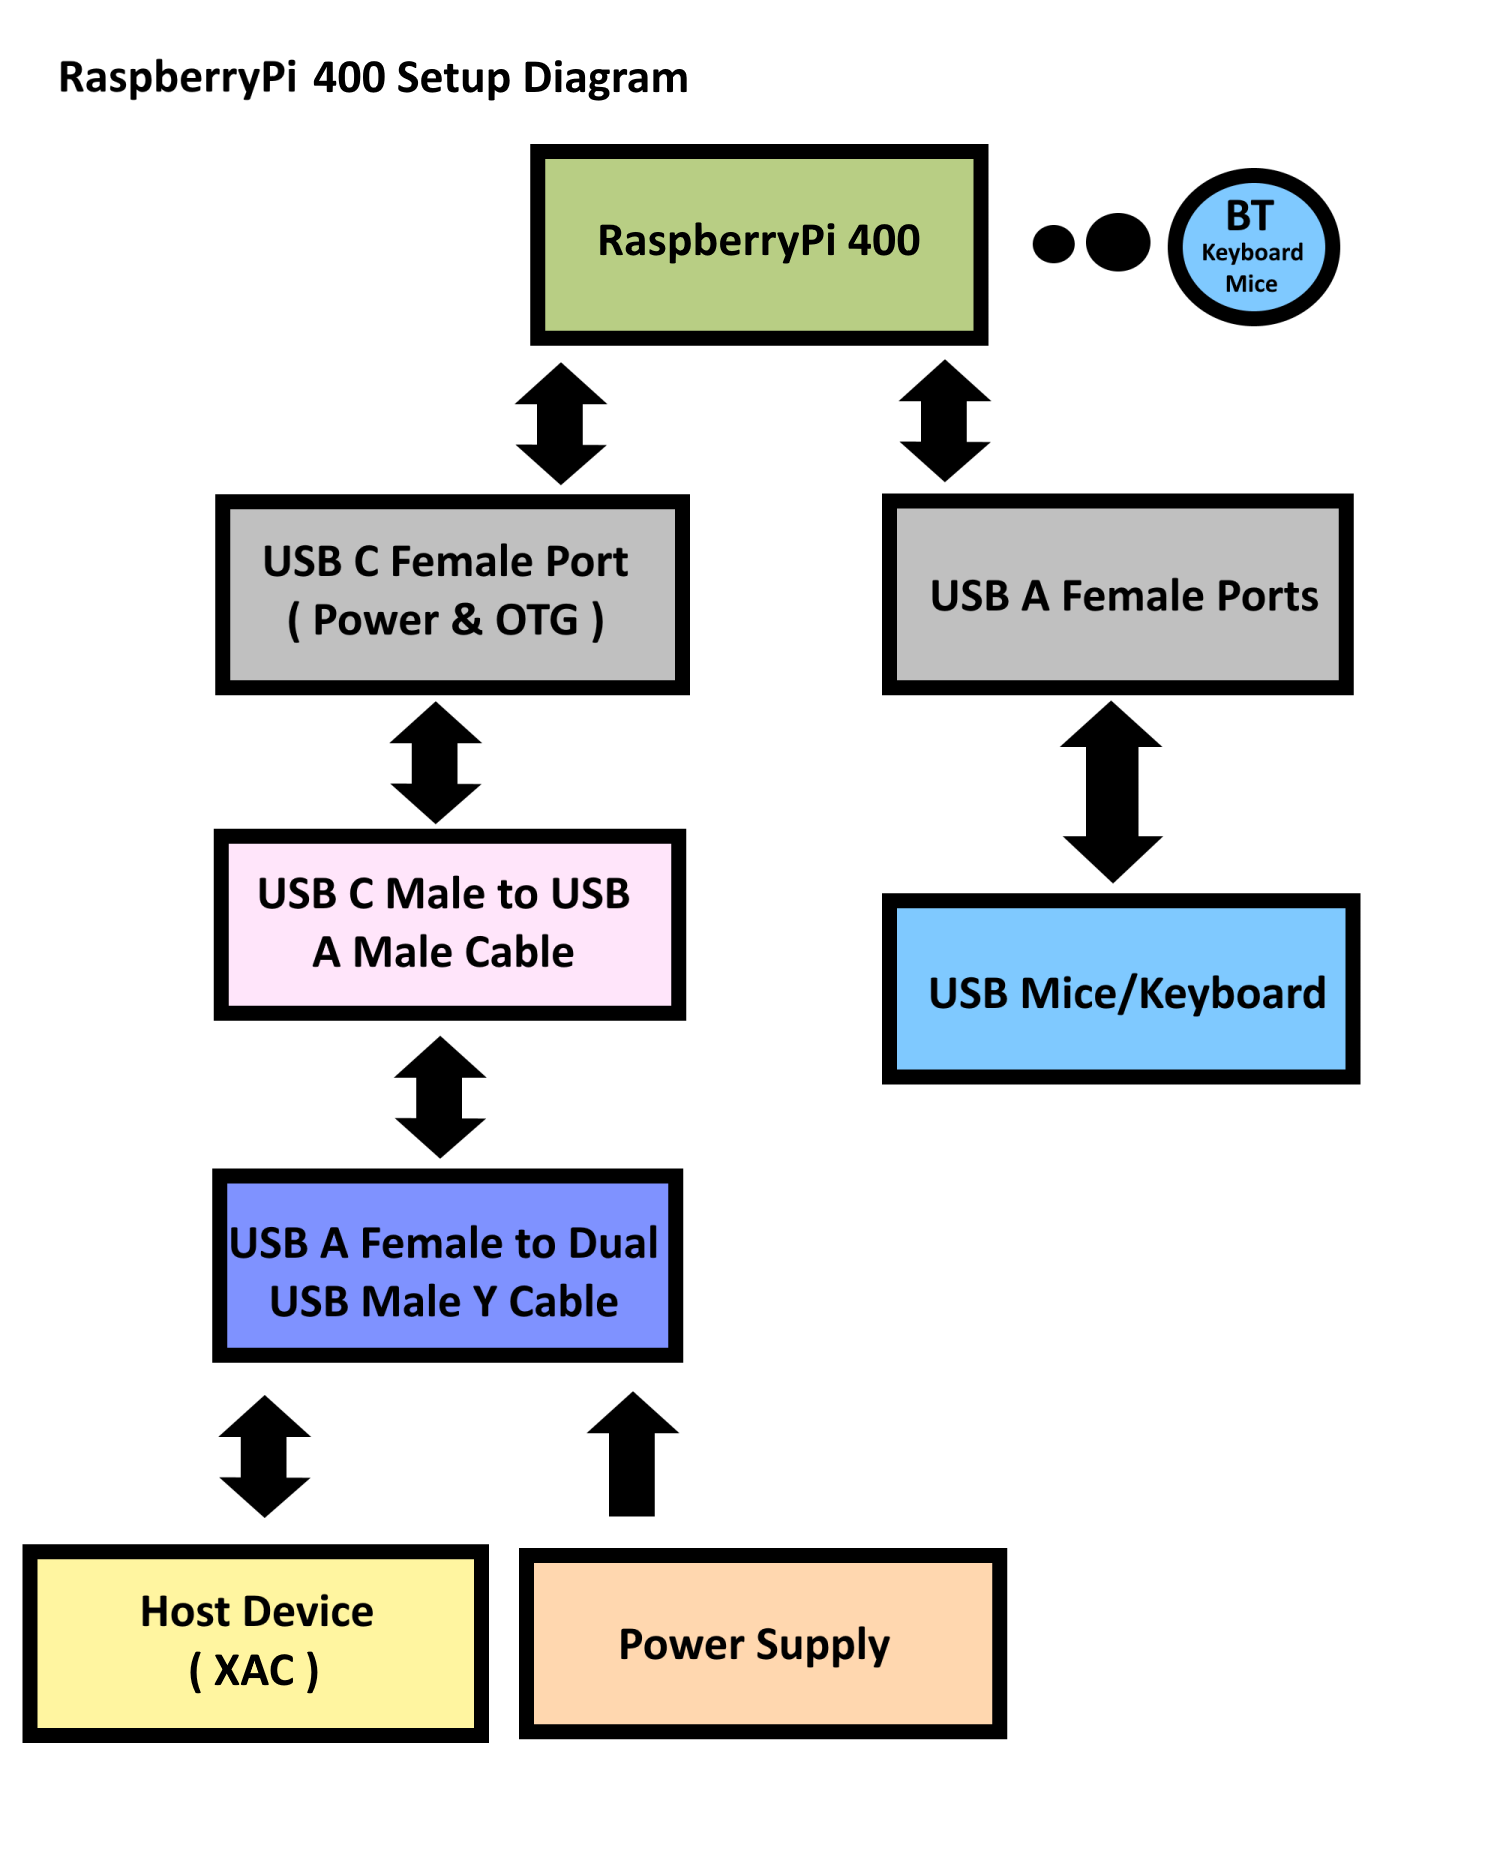
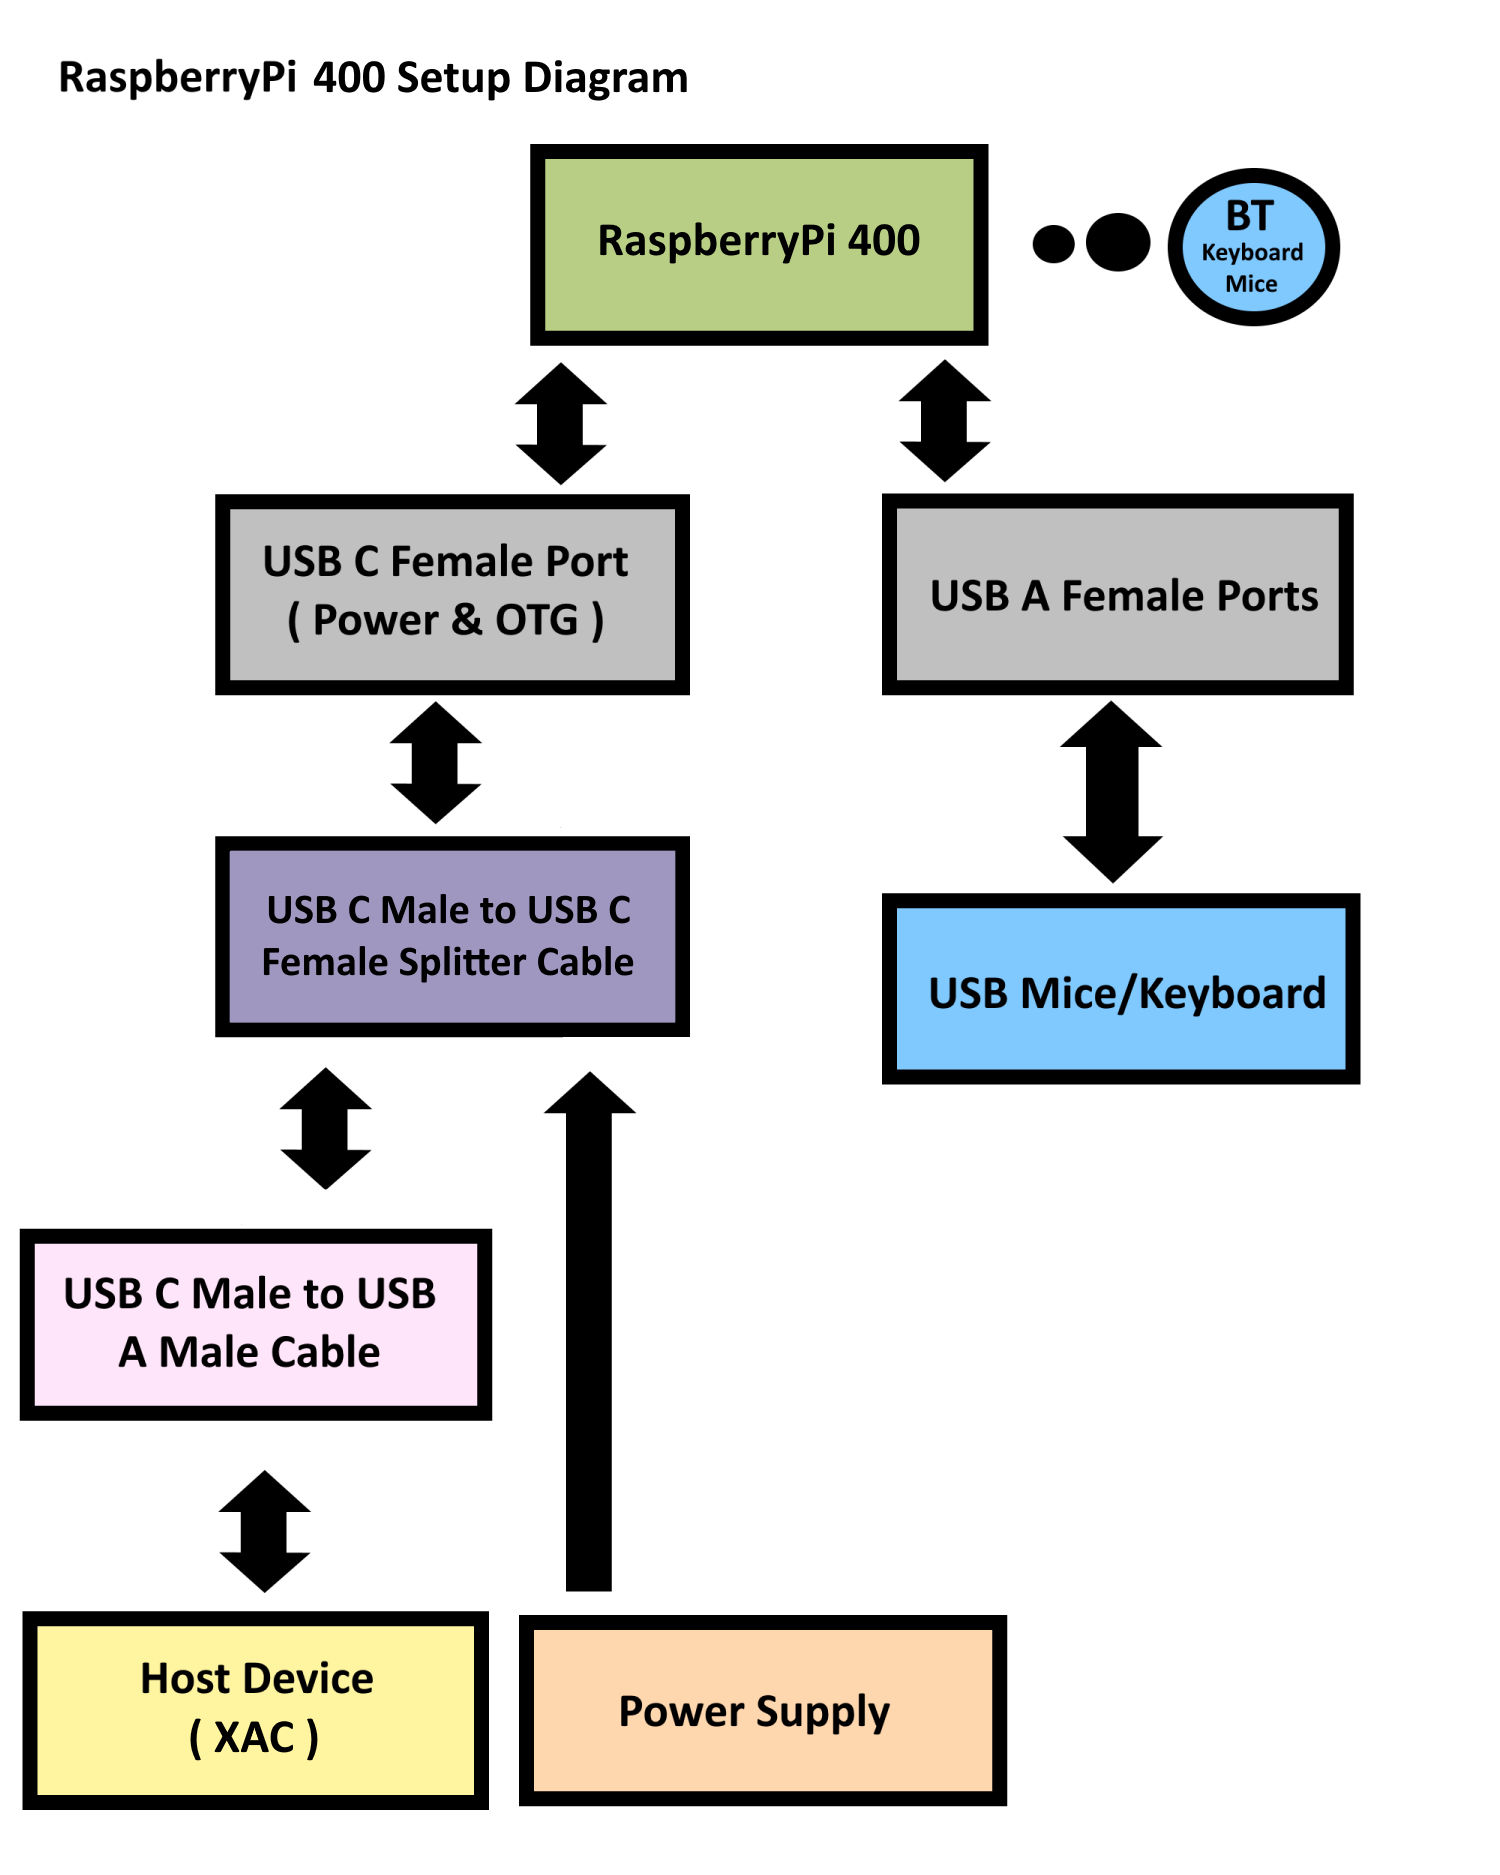
Updated Raspberry pi 4 and 400 cabling solution to provide more power

Changed region(s): [[0.0, 0.4331, 0.6747, 0.9899]]

diff --git a/XACGamepad/README.md b/XACGamepad/README.md
@@ -19,8 +19,8 @@
 
   1. [Raspberry Pi 4B](https://www.raspberrypi.org/products/raspberry-pi-4-model-b/) x 1
   2. Micro SD card x 1
-  3. [USB Female to Dual USB Male Extra Power Data Y Extension Cable](https://www.amazon.com/Black-Female-Extension-Mobile-CableCC/dp/B00ZUE6PVE/) x 1
-  4. Micro USB C Male to USB A Male cable x 1
+  3. [USB C Male to USB C Female Data and Power Splitter](https://www.amazon.com/Splitter-Headphone-Charger-Pixel2XL-Note20Ultra/dp/B09BBFLD22/) x 1
+  4. USB C Male to USB A Male cable x 1
   5. Mice and keyboard to setup (optional)
   6. [Adafruit Mini PiTFT 1.3" - 240x240 TFT Add-on for Raspberry Pi](https://www.adafruit.com/product/4484) x 1  (optional)
   7. BT mice/keyboard or USB mice/keyboard as input 
@@ -31,8 +31,8 @@
 
   1. [Raspberry Pi 400](https://www.raspberrypi.org/products/raspberry-pi-400/) x 1
   2. Micro SD card x 1
-  3. [USB Female to Dual USB Male Extra Power Data Y Extension Cable](https://www.amazon.com/Black-Female-Extension-Mobile-CableCC/dp/B00ZUE6PVE/) x 1
-  4. Micro USB C Male to USB A Male cable x 1
+  3. [USB C Male to USB C Female Data and Power Splitter](https://www.amazon.com/Splitter-Headphone-Charger-Pixel2XL-Note20Ultra/dp/B09BBFLD22/) x 1
+  4. USB C Male to USB A Male cable x 1
   5. Mice and keyboard to setup (optional)
   6. [Adafruit Mini PiTFT 1.3" - 240x240 TFT Add-on for Raspberry Pi](https://www.adafruit.com/product/4484) x 1  (optional)
   7. BT mice/keyboard or USB mice/keyboard as input 
@@ -98,9 +98,9 @@ Note: Make sure the USB cable is connected to XAC running the codes or you may g
 <img align="center" src="./Images/Pi4_XAC_Setup_Diagram.png" width="50%" height="50%" alt="raspberry pi 4 B XAC setup assembly"/>
 </p>
  
-  1. Connect the (USB C Male to USB A Male) cable to the (USB C Female) port of RaspberryPi 4 B.
+  1. Connect the (USB C Male to USB C Female Data and Power Splitter) cable to the (USB C Female) port of RaspberryPi 4 B.
   
-  2. Connect the other end of (USB C Male to USB A Male) cable to (USB A Female to Dual USB Male Extra Power Data Y Extension) Cable.
+  2. Connect the (USB C Male to USB A Male) cable to the (USB C Female) data port of (USB C Male to USB C Female Data and Power Splitter) cable.
 
   3. Insert the flashed micro SD card with the latest version of Raspbian OS into micro SD card slot.
   
@@ -108,13 +108,13 @@ Note: Make sure the USB cable is connected to XAC running the codes or you may g
   
   5. Connect your raspberry pi to a monitor through HDMI cable. You can also use SSH and skip this step. 
 
-  6. Connect power supply to (USB A Male) power port of (Power Data Y Extension) Cable.
+  6. Connect power supply to the (USB C Female) power port of (USB C Data and Power Splitter) cable.
   
   7. Perform the software setup.
   
-  8. Connect RaspberryPi 4 B to your XAC via (USB A Male) data port of (Power Data Y Extension) Cable.
+  8. Connect the other end of (USB C Male to USB A Male) cable to one of the (USB A Female) ports of XAC. This will connect your XAC to the RaspberryPi 4 B.
   
-  9. Connect XAC to your XBOX or Computer
+  9. Connect XAC to your XBOX or Computer via (USB C Male to USB A Male) cable.
 
   
 Note: Make sure the USB cable is connected to XAC before running the codes or you may get 108 error.
@@ -125,23 +125,23 @@ Note: Make sure the USB cable is connected to XAC before running the codes or yo
 <img align="center" src="./Images/Pi400_XAC_Setup_Diagram.png" width="50%" height="50%" alt="raspberry pi 400 XAC setup assembly"/>
 </p>
  
-  1. Connect the (USB C Male to USB A Male) cable to the (USB C Female) port of RaspberryPi 400.
+  1. Connect the (USB C Male to USB C Female Data and Power Splitter) cable to the (USB C Female) port of RaspberryPi 400.
   
-  2. Connect the other end of (USB C Male to USB A Male) cable to (USB A Female to Dual USB Male Extra Power Data Y Extension) Cable.
-
+  2. Connect the (USB C Male to USB A Male) cable to the (USB C Female) data port of (USB C Male to USB C Female Data and Power Splitter) cable.
+  
   3. Insert the flashed micro SD card with the latest version of Raspbian OS into micro SD card slot.
   
   4. Connect a mice and keyboard via (USB A Female) ports on RaspberryPi 400. This step is required to install the necessary code and make Rpi act as a virtual joystick device. You can also use SSH and skip this step. 
   
   5. Connect your raspberry pi to a monitor through HDMI cable. You can also use SSH and skip this step. 
 
-  6. Connect power supply to (USB A Male) power port of (Power Data Y Extension) Cable.
+  6. Connect power supply to the (USB C Female) power port of (USB C Data and Power Splitter) cable.
   
   7. Perform the software setup.
   
-  8. Connect RaspberryPi 400 to your XAC via (USB A Male) data port of (Power Data Y Extension) Cable.
+  8. Connect the other end of (USB C Male to USB A Male) cable to one of the (USB A Female) ports of XAC. This will connect your XAC to the RaspberryPi 400.
   
-  9. Connect XAC to your XBOX or Computer
+  9. Connect XAC to your XBOX or Computer via (USB C Male to USB A Male) cable.
 
   
 Note: Make sure the USB cable is connected to XAC running the codes or you may get 108 error.
